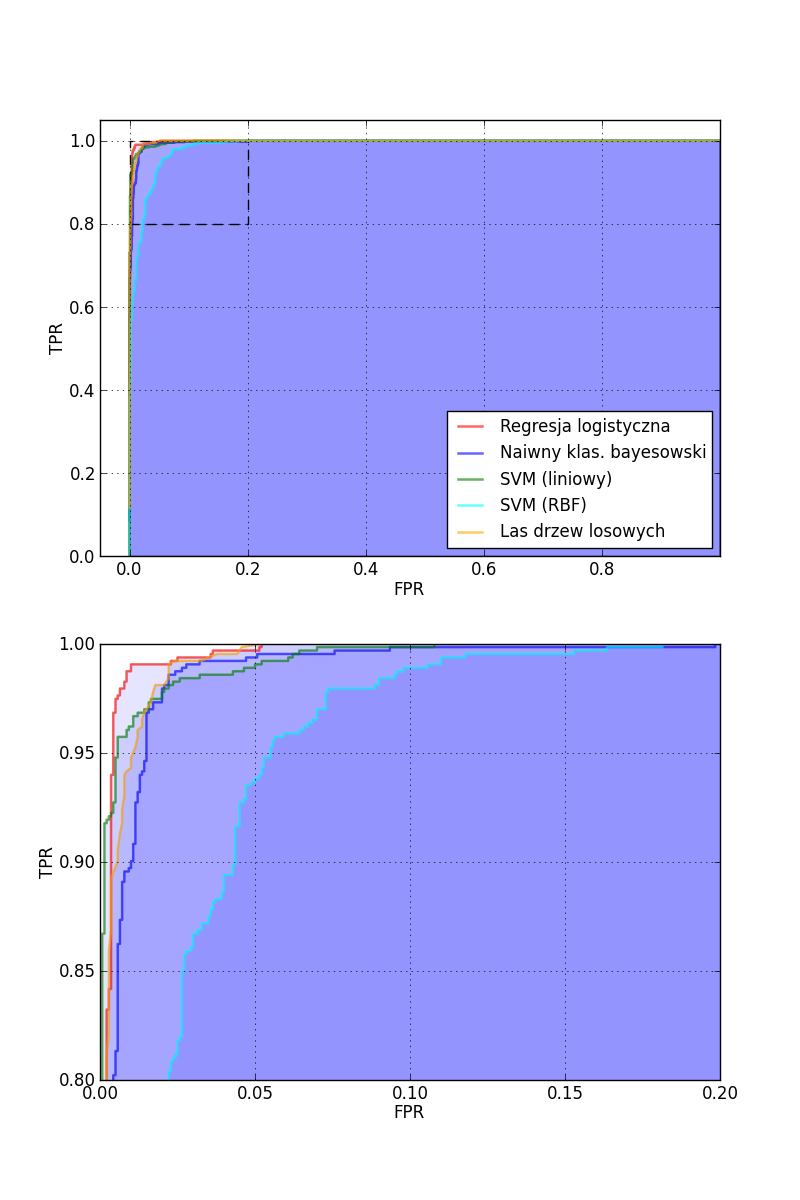
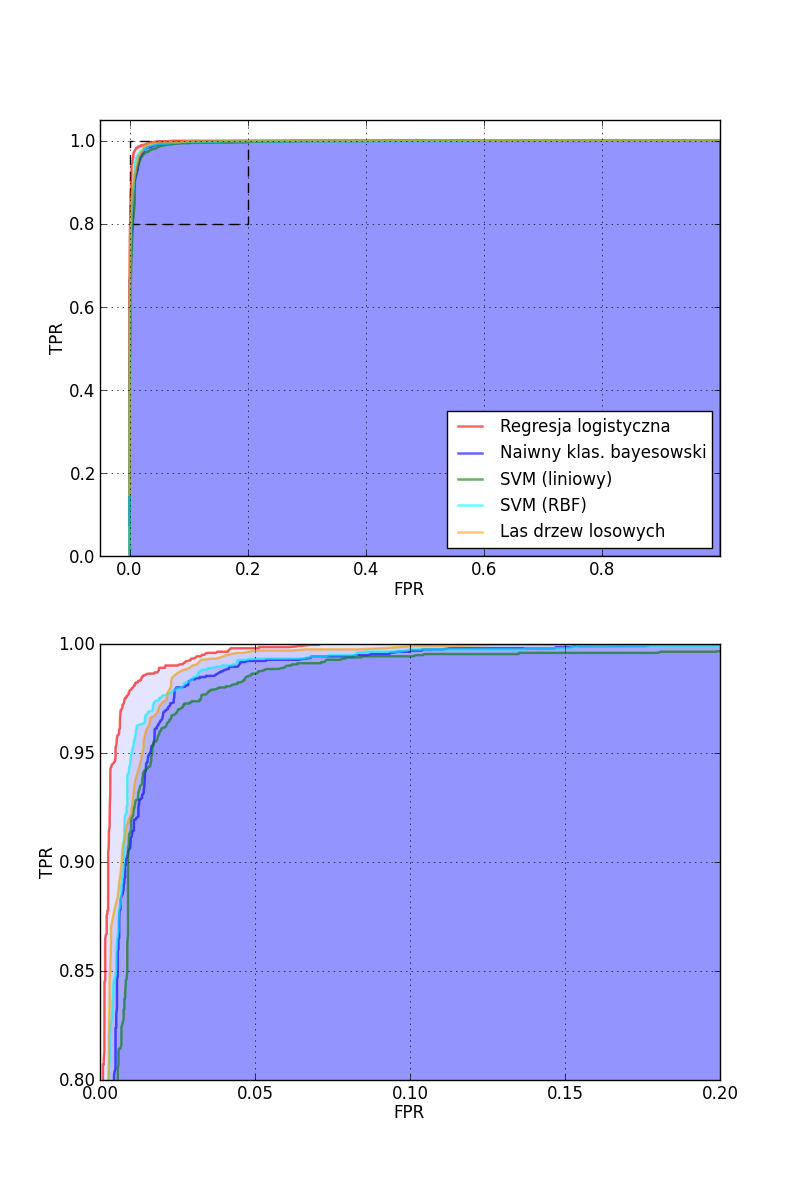
fixed comparison chart

diff --git a/classifier.py b/classifier.py
@@ -263,12 +263,27 @@ def forest_grid():
 
 def classifiers_comparison():
     classifiers = [
-        (LogisticRegression(C=5.0), "Regresja logistyczna"),
-        (MultinomialNB(alpha=0.1), "Naiwny klas. bayesowski"),
-        (SVC(kernel='linear', probability=True,
-             C=3.5, gamma=0.1), "SVM (liniowy)"),
-        (SVC(kernel='rbf', probability=True, C=0.5), "SVM (RBF)"),
-        (RandomForestClassifier(n_estimators=100), "Las drzew losowych"),
+        ("Regresja logistyczna",
+         LogisticRegression(),
+         {'classifier__C': 5.0}),
+
+        ("Naiwny klas. bayesowski",
+         MultinomialNB(),
+         {'classifier__alpha': 0.1}),
+
+        ("SVM (liniowy)",
+         SVC(kernel='linear', probability=True),
+         {'classifier__C': 3.5,
+          'features__text_words': 500, 'features__subject_words': 50}),
+
+        ("SVM (RBF)",
+         SVC(kernel='rbf', probability=True),
+         {'classifier__C': 0.5, 'classifier__gamma': 0.1,
+          'features__text_words': 500, 'features__subject_words': 50}),
+
+        ("Las drzew losowych",
+         RandomForestClassifier(),
+         {'classifier__n_estimators': 100}),
     ]
 
     clf_count = len(classifiers)
@@ -276,10 +291,12 @@ def classifiers_comparison():
     train_mails = parse_mails(COMPLETE_ALL['filename'])
     train_labels = COMPLETE_ALL['label']
     plt.figure(figsize=(8, 12))
-    for (clf, clf_name), (ls, lc) in zip(classifiers, linestyles_gen()):
+    for (clf_name, clf, params), (ls, lc) in zip(classifiers,
+                                                 linestyles_gen()):
         model = AntispamModel(clf)
-        cv = StratifiedKFold(train_labels, 3)
-        scorer = ROCScorer(model.spam_filter.get_params().keys())
+        model.spam_filter.set_params(**params)
+        cv = StratifiedKFold(train_labels, 5)
+        scorer = ROCScorer(params.keys())
         cross_val_score(model.spam_filter, train_mails, train_labels,
                         cv=cv, scoring=scorer, verbose=2)
         score = scorer.interp_scores.values()[0]
@@ -306,7 +323,6 @@ def classifiers_comparison():
     plt.ylim(0.8, 1)
     plt.savefig('doc/charts/ROC_ALL.png')
     plt.show()
-
 
 
 def roc_model_score(model, train_data, train_labels,
